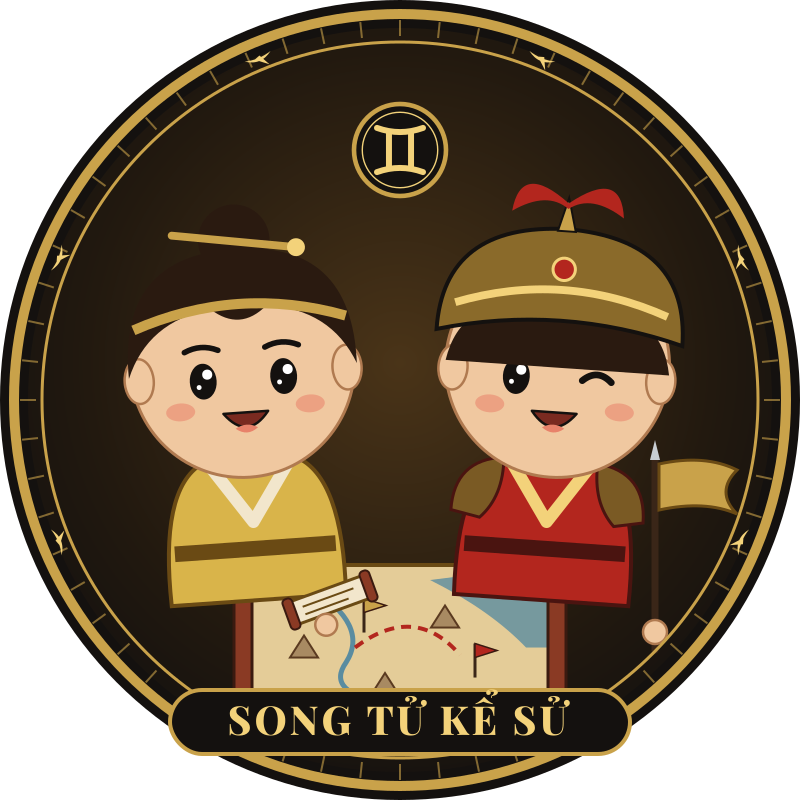
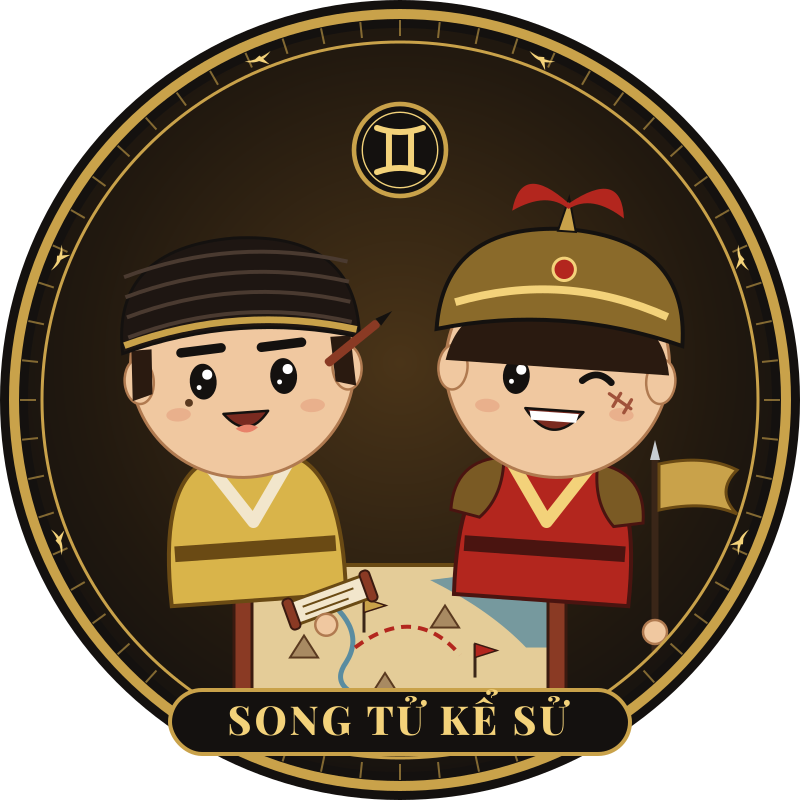
Linh vật Song Tử: hai anh em đều là nam, nét riêng (thư sinh khăn vấn / võ tướng có sẹo)
Claude-Session: https://claude.ai/code/session_012GwE9AoY71FaHC6vswvg8J

diff --git a/scripts/brand/song_tu.py b/scripts/brand/song_tu.py
@@ -12,7 +12,7 @@ OUT = os.path.join(ROOT, 'assets', 'brand', 'song-tu')
 INK, BR, BR2, RED, CREAM = '#14110F', '#C9A24A', '#F3D27A', '#B3261E', '#F2E6CC'
 SKIN, SKIN_D = '#F0C8A0', '#B07A50'
 
-def face(cx, cy, r, mood='cuoi', wink=False):
+def face(cx, cy, r, mood='cuoi', wink=False, may='thang', not_ruoi=False, seo=False):
     """Mặt chibi: mắt to có điểm sáng, má hồng, miệng cười."""
     o = [f'<circle cx="{cx}" cy="{cy}" r="{r}" fill="{SKIN}" stroke="{SKIN_D}" stroke-width="3"/>',
          f'<ellipse cx="{cx-r*0.93}" cy="{cy+r*0.08}" rx="{r*0.13}" ry="{r*0.2}" fill="{SKIN}" stroke="{SKIN_D}" stroke-width="2.5"/>',
@@ -24,16 +24,24 @@ def face(cx, cy, r, mood='cuoi', wink=False):
         else:
             o.append(f'<ellipse cx="{ex}" cy="{ey}" rx="{r*0.12}" ry="{r*0.16}" fill="{INK}"/>')
             o.append(f'<circle cx="{ex+r*0.04}" cy="{ey-r*0.06}" r="{r*0.045}" fill="#FFFFFF"/><circle cx="{ex-r*0.04}" cy="{ey+r*0.05}" r="{r*0.022}" fill="#FFFFFF"/>')
-        o.append(f'<path d="M{ex-r*0.15},{ey-r*0.27} Q{ex},{ey-r*0.34} {ex+r*0.15},{ey-r*0.27}" stroke="{INK}" stroke-width="{r*0.05}" fill="none" stroke-linecap="round"/>')
-        o.append(f'<ellipse cx="{cx+sx*r*0.58}" cy="{cy+r*0.38}" rx="{r*0.13}" ry="{r*0.08}" fill="#E8826A" opacity="0.55"/>')
-    if mood == 'cuoi':
+        if may == 'thang':   # mày rậm, thẳng: điềm tĩnh
+            o.append(f'<path d="M{ex-r*0.18},{ey-r*0.27} L{ex+r*0.18},{ey-r*0.29}" stroke="{INK}" stroke-width="{r*0.085}" stroke-linecap="round"/>')
+        else:                # mày xếch: tinh nghịch, võ
+            o.append(f'<path d="M{ex-sx*r*0.18},{ey-r*0.24} L{ex+sx*r*0.17},{ey-r*0.36}" stroke="{INK}" stroke-width="{r*0.085}" stroke-linecap="round"/>')
+        o.append(f'<ellipse cx="{cx+sx*r*0.6}" cy="{cy+r*0.4}" rx="{r*0.11}" ry="{r*0.06}" fill="#D97A60" opacity="0.3"/>')
+    if not_ruoi: o.append(f'<circle cx="{cx-r*0.5}" cy="{cy+r*0.3}" r="{r*0.035}" fill="#5A3A20"/>')
+    if seo: o.append(f'<path d="M{cx+r*0.48},{cy+r*0.22} l{r*0.2},{r*0.12} M{cx+r*0.52},{cy+r*0.33} l{r*0.06},{-r*0.12} M{cx+r*0.62},{cy+r*0.38} l{r*0.06},{-r*0.12}" stroke="#A0523A" stroke-width="{r*0.03}" stroke-linecap="round"/>')
+    if mood == 'nhe_rang':   # cười toe, lộ răng
+        o.append(f'<path d="M{cx-r*0.26},{cy+r*0.4} Q{cx},{cy+r*0.75} {cx+r*0.26},{cy+r*0.4} Z" fill="#7A2A20" stroke="{INK}" stroke-width="2.5" stroke-linejoin="round"/>'
+                 f'<path d="M{cx-r*0.22},{cy+r*0.42} L{cx+r*0.22},{cy+r*0.42} L{cx+r*0.2},{cy+r*0.5} L{cx-r*0.2},{cy+r*0.5} Z" fill="#FFFFFF"/>')
+    elif mood == 'cuoi':
         o.append(f'<path d="M{cx-r*0.2},{cy+r*0.42} Q{cx},{cy+r*0.68} {cx+r*0.2},{cy+r*0.42} Z" fill="#7A2A20" stroke="{INK}" stroke-width="2.5" stroke-linejoin="round"/>'
                  f'<path d="M{cx-r*0.1},{cy+r*0.56} Q{cx},{cy+r*0.5} {cx+r*0.1},{cy+r*0.56} Q{cx},{cy+r*0.64} {cx-r*0.1},{cy+r*0.56} Z" fill="#E8826A"/>')
     else:
         o.append(f'<path d="M{cx-r*0.18},{cy+r*0.45} Q{cx},{cy+r*0.6} {cx+r*0.18},{cy+r*0.45}" stroke="{INK}" stroke-width="{r*0.05}" fill="none" stroke-linecap="round"/>')
     return ''.join(o)
 
-def twin(cx, cy, r, ben='vang', mood='cuoi', wink=False, tilt=0):
+def twin(cx, cy, r, ben='vang', mood='cuoi', wink=False, tilt=0, may='thang', not_ruoi=False, seo=False):
     """Một người trong cặp sinh đôi. (cx, cy) = tâm đầu, r = bán kính đầu."""
     vang = ben == 'vang'
     robe, dark, trim = ('#D9B44A', '#6A4A14', CREAM) if vang else (RED, '#4A1410', BR2)
@@ -46,13 +54,14 @@ def twin(cx, cy, r, ben='vang', mood='cuoi', wink=False, tilt=0):
     if not vang:   # giáp vai
         o.append(f'<path d="M{cx-r*0.86},{by+r*0.5} Q{cx-r*0.86},{by+r*0.05} {cx-r*0.42},{by} Q{cx-r*0.4},{by+r*0.35} {cx-r*0.6},{by+r*0.55} Z" fill="#7A5A24" stroke="{dark}" stroke-width="3"/>'
                  f'<path d="M{cx+r*0.86},{by+r*0.5} Q{cx+r*0.86},{by+r*0.05} {cx+r*0.42},{by} Q{cx+r*0.4},{by+r*0.35} {cx+r*0.6},{by+r*0.55} Z" fill="#7A5A24" stroke="{dark}" stroke-width="3"/>')
-    o.append(face(cx, cy, r, mood, wink))
-    if vang:       # tóc + búi + trâm vàng
-        o.append(f'<path d="M{cx-r*1.02},{cy+r*0.05} Q{cx-r*1.05},{cy-r*1.05} {cx},{cy-r*1.04} Q{cx+r*1.05},{cy-r*1.05} {cx+r*1.02},{cy+r*0.05} '
-                 f'Q{cx+r*0.82},{cy-r*0.45} {cx+r*0.25},{cy-r*0.52} Q{cx},{cy-r*0.3} {cx-r*0.25},{cy-r*0.52} Q{cx-r*0.82},{cy-r*0.45} {cx-r*1.02},{cy+r*0.05} Z" fill="#2A1A10"/>')
-        o.append(f'<circle cx="{cx}" cy="{cy-r*1.12}" r="{r*0.32}" fill="#2A1A10"/>')
-        o.append(f'<line x1="{cx-r*0.55}" y1="{cy-r*1.2}" x2="{cx+r*0.55}" y2="{cy-r*1.02}" stroke="{BR}" stroke-width="{r*0.07}" stroke-linecap="round"/><circle cx="{cx+r*0.55}" cy="{cy-r*1.02}" r="{r*0.08}" fill="{BR2}"/>')
-        o.append(f'<path d="M{cx-r*0.95},{cy-r*0.38} Q{cx},{cy-r*0.72} {cx+r*0.95},{cy-r*0.38}" stroke="{BR}" stroke-width="{r*0.09}" fill="none"/>')
+    o.append(face(cx, cy, r, mood, wink, may, not_ruoi, seo))
+    if vang:       # thư sinh nam: tóc mai + khăn vấn đen quấn đầu, bút lông gác tai
+        o.append(f'<path d="M{cx-r*1.0},{cy+r*0.25} L{cx-r*0.98},{cy-r*0.2} L{cx-r*0.8},{cy-r*0.2} L{cx-r*0.82},{cy+r*0.2} Z M{cx+r*1.0},{cy+r*0.25} L{cx+r*0.98},{cy-r*0.2} L{cx+r*0.8},{cy-r*0.2} L{cx+r*0.82},{cy+r*0.2} Z" fill="#2A1A10"/>')
+        o.append(f'<path d="M{cx-r*1.06},{cy-r*0.18} Q{cx-r*1.1},{cy-r*1.12} {cx},{cy-r*1.14} Q{cx+r*1.1},{cy-r*1.12} {cx+r*1.06},{cy-r*0.18} Q{cx},{cy-r*0.48} {cx-r*1.06},{cy-r*0.18} Z" fill="#1E1612" stroke="{INK}" stroke-width="3"/>')
+        for k in range(4):   # nếp khăn
+            o.append(f'<path d="M{cx-r*1.0},{cy-r*(0.32+k*0.18)} Q{cx},{cy-r*(0.62+k*0.18)} {cx+r*1.0},{cy-r*(0.32+k*0.18)}" stroke="#4A3A30" stroke-width="{r*0.035}" fill="none"/>')
+        o.append(f'<path d="M{cx-r*1.04},{cy-r*0.25} Q{cx},{cy-r*0.55} {cx+r*1.04},{cy-r*0.25}" stroke="{BR}" stroke-width="{r*0.06}" fill="none"/>')
+        o.append(f'<g transform="rotate(-35 {cx+r*0.95} {cy-r*0.1})"><rect x="{cx+r*0.7}" y="{cy-r*0.14}" width="{r*0.6}" height="{r*0.08}" rx="{r*0.03}" fill="#8A3A24"/><path d="M{cx+r*1.3},{cy-r*0.14} l{r*0.16},{r*0.04} l{-r*0.16},{r*0.04} Z" fill="{INK}"/></g>')
     else:          # tóc mái + mũ trụ tua đỏ
         o.append(f'<path d="M{cx-r*1.0},{cy+r*0.02} Q{cx-r*0.9},{cy-r*0.55} {cx-r*0.3},{cy-r*0.48} Q{cx},{cy-r*0.3} {cx+r*0.3},{cy-r*0.48} Q{cx+r*0.9},{cy-r*0.55} {cx+r*1.0},{cy+r*0.02} Z" fill="#2A1A10"/>')
         o.append(f'<path d="M{cx-r*1.1},{cy-r*0.25} Q{cx-r*1.1},{cy-r*1.2} {cx},{cy-r*1.22} Q{cx+r*1.1},{cy-r*1.2} {cx+r*1.1},{cy-r*0.25} Q{cx},{cy-r*0.55} {cx-r*1.1},{cy-r*0.25} Z" fill="#8A6A2A" stroke="{INK}" stroke-width="4"/>')
@@ -111,8 +120,8 @@ def avatar(size=800, text=False):
          '<circle cx="400" cy="400" r="400" fill="#14110F"/><circle cx="400" cy="400" r="372" fill="url(#bg)"/>',
          '<g clip-path="url(#cl)">',
          map_scroll(400, 640, 300, 150),
-         twin(255, 365, 112, 'vang', 'cuoi', tilt=-4), hand_scroll(330, 600, 1.0),
-         twin(545, 365, 112, "do", "cuoi", wink=True, tilt=4), hand_flag(655, 610, 1.0),
+         twin(255, 365, 112, "vang", "cuoi", tilt=-4, may="thang", not_ruoi=True), hand_scroll(330, 600, 1.0),
+         twin(545, 365, 112, "do", "nhe_rang", wink=True, tilt=4, may="xech", seo=True), hand_flag(655, 610, 1.0),
          '</g>', drum_ring(400, 386), gemini(400, 150, 46)]
     if text:
         o.append('<path id="arc" d="M150,560 A260,260 0 0 0 650,560" fill="none"/>')
